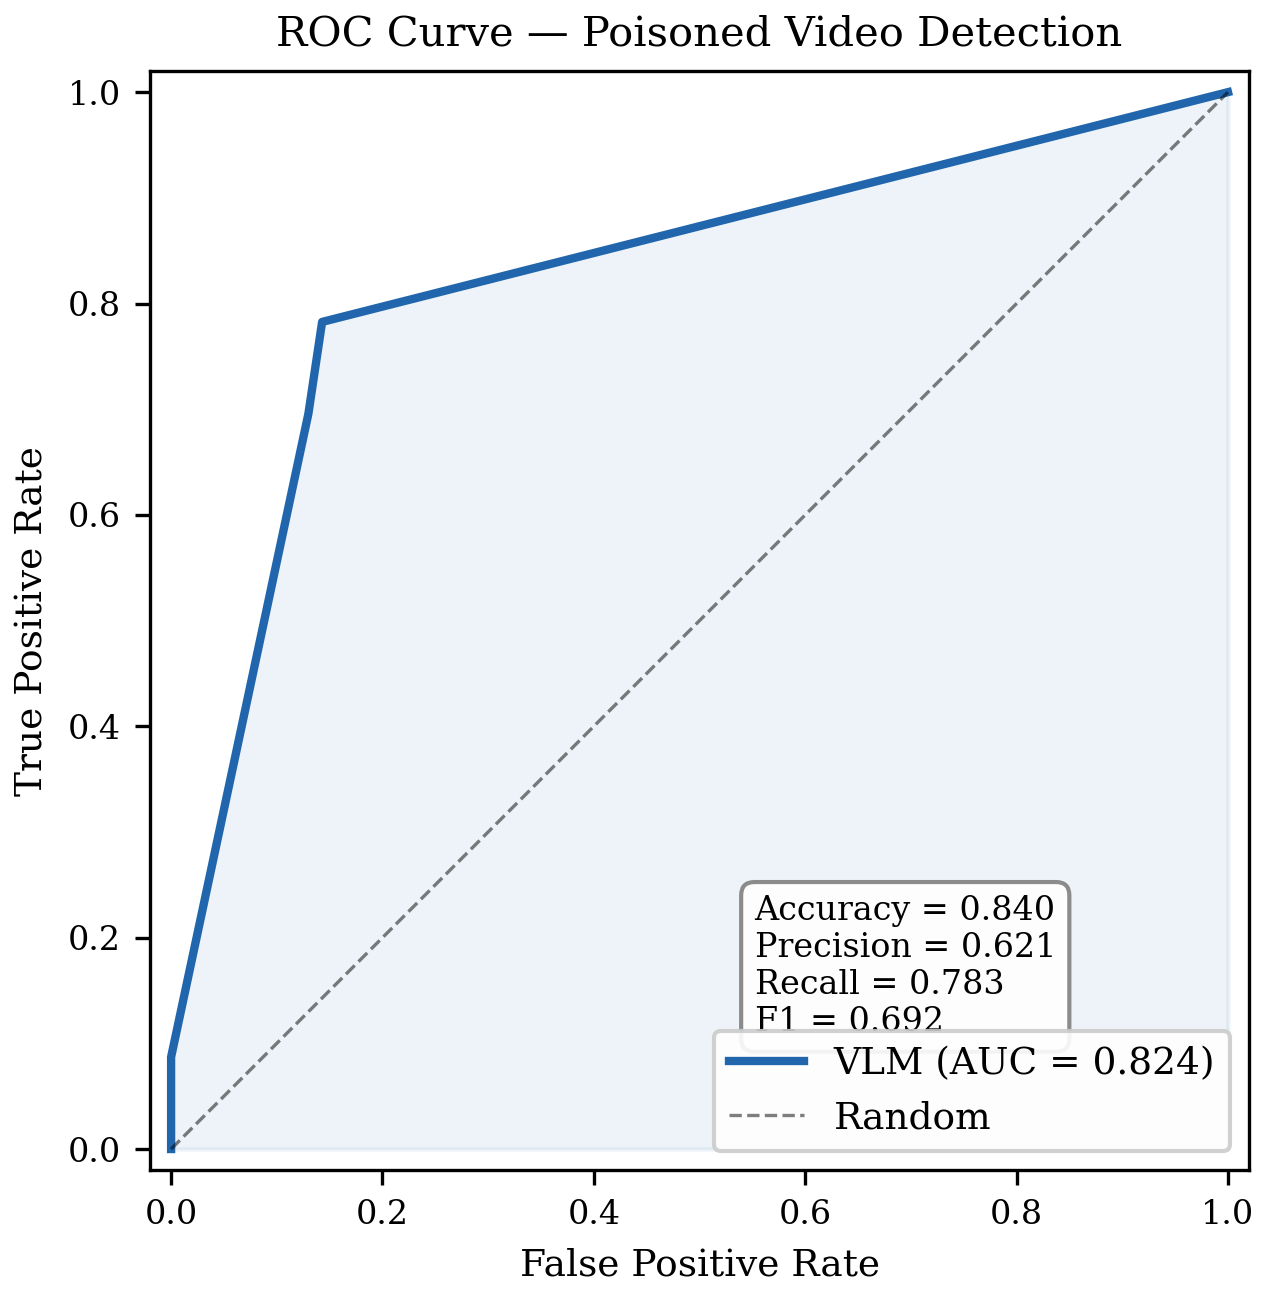
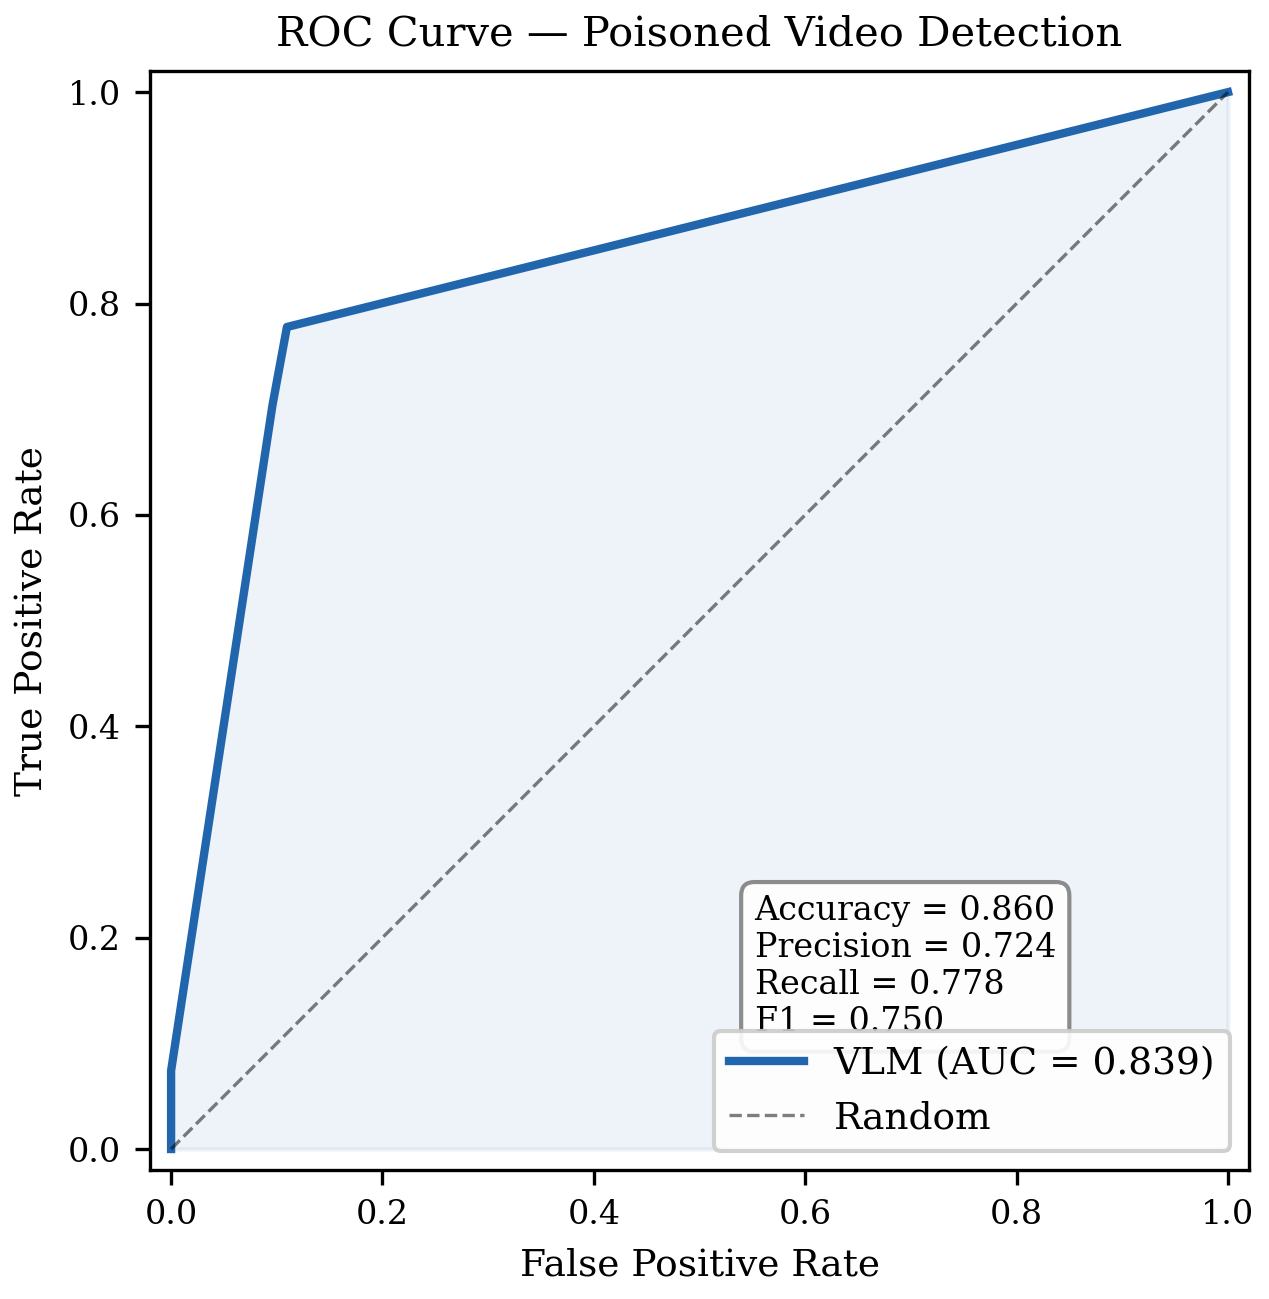
lower human poisoned threshold to 0.5, VLM keeps 0.6
Human annotator scores are averaged (3 raters) so raw 0.6 thresholds
rarely trigger; 0.5 better captures borderline cases. VLM outputs
discrete scores so 0.6 remains appropriate.

Results: Acc=0.860, P=0.724, R=0.778, F1=0.750, AUC=0.839

diff --git a/src/compare_analysis.py b/src/compare_analysis.py
@@ -172,19 +172,20 @@ def analyse(dataset_json: str, annotation_xlsx: str) -> Dict:
     print(f"  [overall] Spearman={spear_r:.3f} ICC={icc_overall:.3f}")
 
     # ── Binary classification (poisoned detection) ───────────────────────
-    POISON_THR = 0.6
+    HUMAN_POISON_THR = 0.5
+    VLM_POISON_THR = 0.6
 
-    # human ground truth: poisoned if any dimension avg >= threshold
+    # human ground truth: poisoned if any dimension avg >= 0.5
     h_sem = merged[[f"semantic{i}" for i in (1, 2, 3)]].mean(axis=1).values
     h_log = merged[[f"logical{i}" for i in (1, 2, 3)]].mean(axis=1).values
     h_dec = merged[[f"decision{i}" for i in (1, 2, 3)]].mean(axis=1).values
-    y_true = (np.maximum(np.maximum(h_sem, h_log), h_dec) >= POISON_THR).astype(int)
+    y_true = (np.maximum(np.maximum(h_sem, h_log), h_dec) >= HUMAN_POISON_THR).astype(int)
 
-    # VLM prediction
+    # VLM prediction: poisoned if any dimension >= 0.6
     v_sem = merged["vlm_semantic"].values
     v_log = merged["vlm_logical"].values
     v_dec = merged["vlm_decision"].values
-    y_pred = (np.maximum(np.maximum(v_sem, v_log), v_dec) >= POISON_THR).astype(int)
+    y_pred = (np.maximum(np.maximum(v_sem, v_log), v_dec) >= VLM_POISON_THR).astype(int)
 
     # VLM continuous score for ROC (max dimension score as confidence)
     y_score = np.maximum(np.maximum(v_sem, v_log), v_dec)

diff --git a/scripts/gen_human_submission.py b/scripts/gen_human_submission.py
@@ -3,7 +3,7 @@
 
 Uses the same scoring/classification logic as the VLM evaluator:
   - Three annotator scores averaged per dimension
-  - is_poisoned = max(semantic, logical, decision) >= 0.6
+  - is_poisoned = max(semantic, logical, decision) >= 0.5
   - attack_level = highest-scoring dimension (tie-break: Decision > Semantic > Logical)
   - final_score = 0.3 * semantic + 0.3 * logical + 0.4 * decision
 """
@@ -15,7 +15,7 @@ from pathlib import Path
 
 import openpyxl
 
-POISON_THRESHOLD = 0.6
+POISON_THRESHOLD = 0.5
 WEIGHTS = {"semantic": 0.3, "logical": 0.3, "decision": 0.4}
 
 

diff --git a/README.md b/README.md
@@ -368,25 +368,25 @@ USR1 signal (sent 300s before walltime) triggers auto-resubmit via
 ### Poisoned Detection — Binary Classification
 
 Ground truth: a video is **poisoned** if the human annotators' average
-score on **any** dimension (semantic / logical / decision) is ≥ 0.6.
-The VLM uses the same threshold on its own scores.
+score on **any** dimension (semantic / logical / decision) is ≥ 0.5.
+The VLM uses a threshold of ≥ 0.6 on its own scores.
 
 | Metric | Value |
 |--------|-------|
-| Human poisoned count | 23 / 100 (23%) |
+| Human poisoned count | 27 / 100 (27%) |
 | VLM poisoned count | 29 / 100 (29%) |
-| Accuracy | 0.840 |
-| Precision | 0.621 |
-| Recall | 0.783 |
-| F1 Score | 0.692 |
-| **AUC** | **0.824** |
+| Accuracy | 0.860 |
+| Precision | 0.724 |
+| Recall | 0.778 |
+| F1 Score | 0.750 |
+| **AUC** | **0.839** |
 
-Confusion matrix: TP=18, FP=11, FN=5, TN=66.
+Confusion matrix: TP=21, FP=8, FN=6, TN=65.
 
 #### Fig 8 — ROC Curve
 
 ROC curve using max(semantic, logical, decision) as the continuous
-confidence score. AUC = 0.824 indicates good discriminative ability.
+confidence score. AUC = 0.839 indicates good discriminative ability.
 
 ![Fig 8: ROC Curve](results/figures/fig8_roc_curve.png)
 
